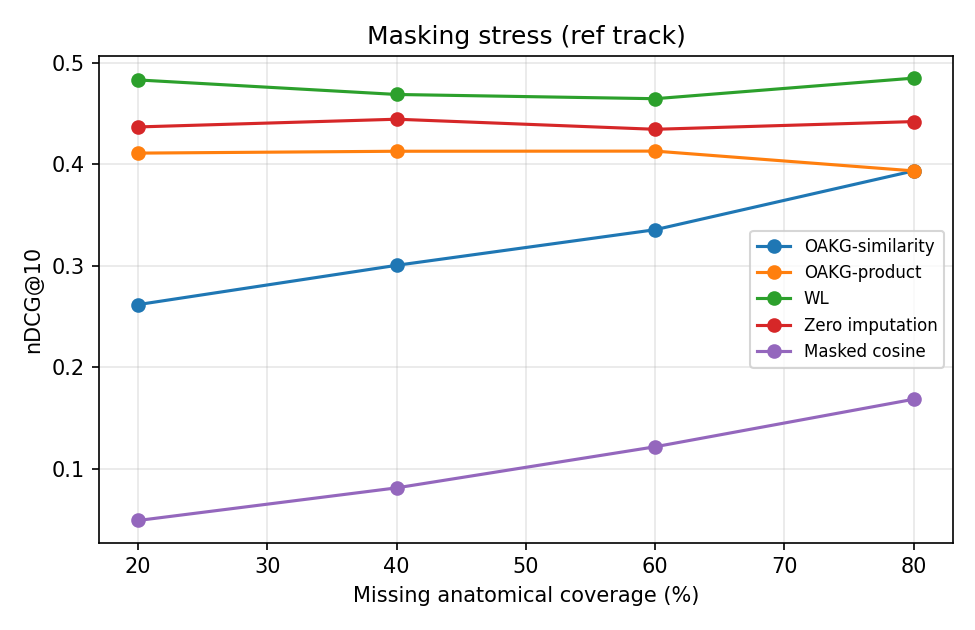
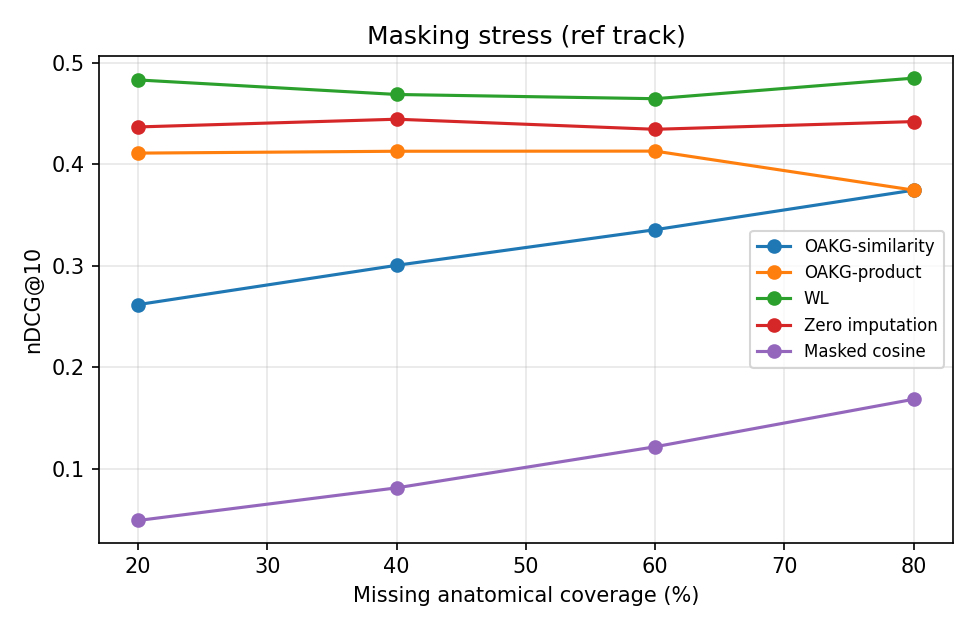
Main pipeline: rank incomparable candidates at the bottom (declared policy), not drop
Resolves the 0.403/0.407 discrepancy at the source. The main benchmark dropped
observation-incomparable candidates before scoring (ideal-DCG over eligible only),
inflating OAKG in one-sided regimes; the declared incomparable_policy is "bottom"
(as the union ablation and native analysis already use). Now the main pipeline
ranks incomparable candidates at the bottom (finite floor below all eligible
scores), so ideal-DCG is over the full pool.

Effect: random OAKG (lex) 0.407438 -> 0.402694, now IDENTICAL to the union
ablation. Largest corrections in the asymmetric regime (up to ~0.16) and
dataset_style, exactly where one-sided coverage creates incomparable candidates;
uniform ~0 and random ~0.005. Policy invariants hold (lex==product tie; both >
similarity). Regenerated: retrieval_summary, ranking_policy_selection,
publication_ready, cross_backbone, upstream_degradation, masking_stress figure.

Changed region(s): [[0.6769, 0.2413, 0.9538, 0.3619]]

diff --git a/oakg/benchmark.py b/oakg/benchmark.py
@@ -62,11 +62,19 @@ def evaluate_vector_methods(
                 policy=policy, gamma_min=gamma_min,
             )
             valid = eligible & np.isfinite(scores)
+            # incomparable_policy = "bottom": keep the FULL candidate pool and push
+            # ineligible (observation-incomparable) candidates to the bottom, so the
+            # ideal-DCG is taken over the full pool. This matches the declared policy
+            # and the OAKG-Union ablation; dropping them instead would inflate nDCG.
+            # Use a finite floor (below every eligible score, which are all >= 0) so
+            # downstream metrics stay finite.
+            floor = (float(scores[valid].min()) if valid.any() else 0.0) - 1.0
+            ranking = np.where(valid, scores, floor)
             row = query_metric_row(
                 query.query_id,
                 f"OAKG-{policy} [{track}]",
-                np.asarray(candidates)[valid],
-                scores[valid],
+                np.asarray(candidates),
+                ranking,
                 data.relevance,
                 served=bool(np.any(valid)),
                 k=config.top_k,
